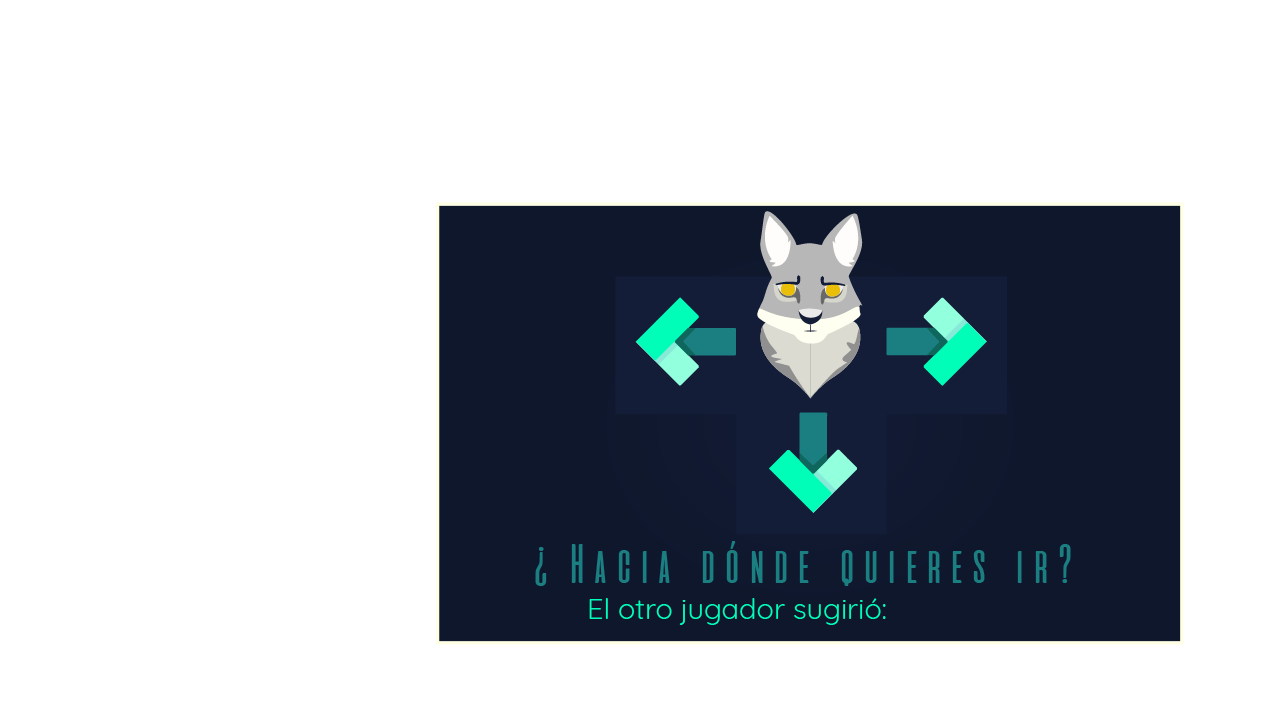
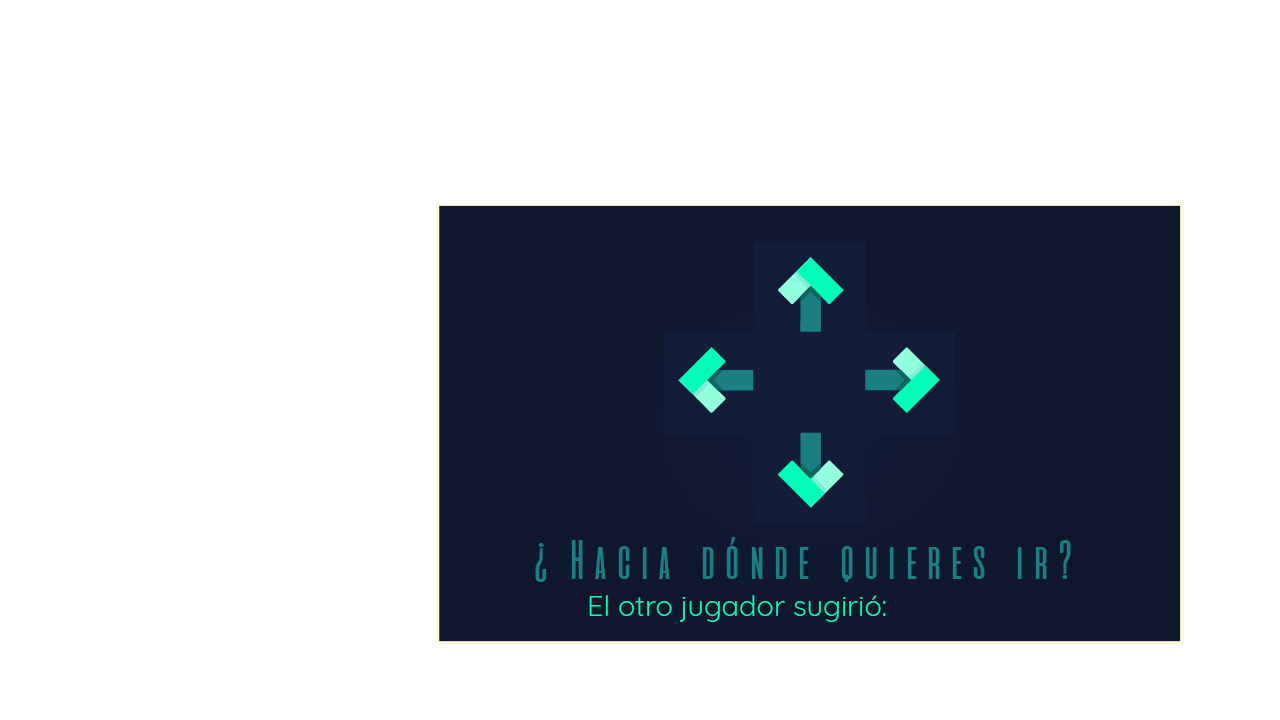
pasable de principio a fin

diff --git a/HCI2ProyectoUno/src/main/java/Karlos/HCI2ProyectoUno/Logica.java b/HCI2ProyectoUno/src/main/java/Karlos/HCI2ProyectoUno/Logica.java
@@ -57,7 +57,8 @@ public class Logica implements Observer
     PImage balanceConfianza[];
     PImage esperarJugadorIMG;
     PImage energia[];
-	
+    PImage sugerirImg;
+    PImage escogerImg;
 	
 	String mostrarBalance=null;
 	
@@ -96,6 +97,8 @@ public class Logica implements Observer
 		balanceConfianza[4]= app.loadImage("../data/Insumos/Blance 100-8.png");
 		esperarJugadorIMG= app.loadImage("../data/Insumos/Esperando-8.png");
 		energia= new PImage[20];
+		sugerirImg=  app.loadImage("../data/Insumos/Jugador 1 - sugiere-8.png");
+		escogerImg=  app.loadImage("../data/Insumos/Jugador 1 - ir-8.png");
 		
 		
 		for (int i = 0; i < 19; i++) {
@@ -296,14 +299,14 @@ public class Logica implements Observer
 		switch (estadoRonda) {
 		case 0:
 			app.fill(255);
-			
-			app.text("Sugiere una direccion para el otro jugador", 200, 100);
+			app.image(sugerirImg, 0, 0);
+		//	app.text("Sugiere una direccion para el otro jugador", 200, 100);
 			rutas.pintar();
 			
-			app.text("Izquierda", 600, 400);
-			app.text("Derecha", 1000, 400);
-			app.text("Derecho", 800, 200);
-			app.text("Atras", 800, 600);
+		//	app.text("Izquierda", 600, 400);
+		//	app.text("Derecha", 1000, 400);
+		//	app.text("Derecho", 800, 200);
+		//	app.text("Atras", 800, 600);
 		//	g= rutas.rNodes;
 			if(g!=null){
 			posicionesJugador(g);
@@ -318,14 +321,14 @@ public class Logica implements Observer
 				
 				} else if (mostrarBalance==null) {
 					app.fill(255);
+					app.image(escogerImg, 0, 0);
+					app.text(sugerencia, 940, 614);
 					
-					app.text("el otro jugador sugurio:"+ sugerencia, 200, 100);
 					
-					
-					app.text("Izquierda", 600, 400);
-					app.text("Derecha", 1000, 400);
-					app.text("Derecho", 800, 200);
-					app.text("Atras", 800, 600);
+				//	app.text("Izquierda", 600, 400);
+				//	app.text("Derecha", 1000, 400);
+				//	app.text("Derecho", 800, 200);
+				//	app.text("Atras", 800, 600);
 				//	g= rutas.rNodes;
 				//	if(g!=null){
 				//	posicionesJugador(g);
@@ -352,13 +355,13 @@ public class Logica implements Observer
 			
 			app.fill(255);
 			
-			app.text("el otro jugador sugurio:"+ sugerencia, 200, 100);
+			app.text(sugerencia, 895, 607);
 			rutas.pintar();
 			
-			app.text("Izquierda", 600, 400);
-			app.text("Derecha", 1000, 400);
-			app.text("Derecho", 800, 200);
-			app.text("Atras", 800, 600);
+		//	app.text("Izquierda", 600, 400);
+		//	app.text("Derecha", 1000, 400);
+		//	app.text("Derecho", 800, 200);
+		//	app.text("Atras", 800, 600);
 		//	g= rutas.rNodes;
 			if(g!=null){
 			posicionesJugador(g);
@@ -473,7 +476,7 @@ public class Logica implements Observer
 		case 0:
 			
 			app.println(mouseX,mouseY);
-			if( (mouseX>751 && mouseX<850) && (mouseY>175 && mouseY<210)){
+			if( (mouseX>750 && mouseX<855) && (mouseY>340 && mouseY<435)){
 				System.out.println("arriba");
 				ArrayList<String> secuencia= rutas.getSequence();
 				if(secuencia.get(0).equals("arriba")){
@@ -494,7 +497,7 @@ public class Logica implements Observer
 				
 				
 			
-			} else if((mouseX>550 && mouseX<650) && (mouseY>380 && mouseY<415)){
+			} else if((mouseX>665 && mouseX<760) && (mouseY>425 && mouseY<530)){
 				System.out.println("izquierda");
 				ArrayList<String> secuencia= rutas.getSequence();
 				if(secuencia.get(0).equals("izq")){
@@ -509,7 +512,7 @@ public class Logica implements Observer
 				estadoRonda+=1;
 				
 				
-			} else if((mouseX>950 && mouseX<1050) && (mouseY>380 && mouseY<415)){
+			} else if((mouseX>855 && mouseX<955) && (mouseY>426 && mouseY<530)){
 				System.out.println("derecha");
 				ArrayList<String> secuencia= rutas.getSequence();
 				if(secuencia.get(0).equals("der")){
@@ -525,7 +528,7 @@ public class Logica implements Observer
 				estadoRonda+=1;
 				
 				
-			} else if ((mouseX>766 && mouseX<830) && (mouseY>570 && mouseY<608)){
+			} else if ((mouseX>755 && mouseX<870) && (mouseY>520 && mouseY<620)){
 				System.out.println("atras");
 				ArrayList<String> secuencia= rutas.getSequence();
 				if(secuencia.get(0).equals("abajo")){
@@ -545,9 +548,9 @@ public class Logica implements Observer
 
 		case 1:
 			app.println(mouseX,mouseY);
-			if( (mouseX>751 && mouseX<850) && (mouseY>175 && mouseY<210)){
+			if( (mouseX>752 && mouseX<865) && (mouseY>246 && mouseY<335)){
 				System.out.println("derecho");
-				startNode = rutas.gs.getNodeAt(g[0].xf()+rutas.offX - rutas.offX, g[0].yf()+rutas.offY-20 - rutas.offY, 0,10.0f); 
+				startNode = rutas.gs.getNodeAt(g[0].xf()+rutas.offX - rutas.offX, g[0].yf()+rutas.offY-20 - rutas.offY, 0,9.0f); 
 				int imprimir= (int) (g[0].yf()+rutas.offY-5) ;
 				app.println("posicion apuntada:" + imprimir);
 				if(startNode!=null){
@@ -566,16 +569,16 @@ public class Logica implements Observer
 				
 				}
 				//-----------------
-				app.delay(300);
+				app.delay(350);
 				server.enviarObjeto(new BalanceCompleto(confie, dijeVerdad));
 				//---------------
 				//estadoRonda+=1;
 				mostrarBalance="yes";
 				
 			
-			} else if((mouseX>550 && mouseX<650) && (mouseY>380 && mouseY<415)){
+			} else if((mouseX>665 && mouseX<760) && (mouseY>333 && mouseY<430)){
 				System.out.println("izquierda");
-					startNode = rutas.gs.getNodeAt(g[0].xf()+rutas.offX-17 - rutas.offX, g[0].yf()+rutas.offY - rutas.offY, 0, 16.0f); 
+					startNode = rutas.gs.getNodeAt(g[0].xf()+rutas.offX-17 - rutas.offX, g[0].yf()+rutas.offY - rutas.offY, 0, 15.0f); 
 					if(startNode!=null){
 					System.out.println("id del nodo: "+startNode.id());
 					
@@ -600,9 +603,9 @@ public class Logica implements Observer
 					mostrarBalance="yes";
 					
 					
-			} else if((mouseX>950 && mouseX<1050) && (mouseY>380 && mouseY<415)){
+			} else if((mouseX>865 && mouseX<960) && (mouseY>380 && mouseY<415)){
 				System.out.println("derecha");
-				startNode = rutas.gs.getNodeAt(g[0].xf()+rutas.offX+20 - rutas.offX, g[0].yf()+rutas.offY - rutas.offY, 0, 10.0f); 
+				startNode = rutas.gs.getNodeAt(g[0].xf()+rutas.offX+20 - rutas.offX, g[0].yf()+rutas.offY - rutas.offY, 0, 9.0f); 
 				if(startNode!=null){
 				System.out.println("id del nodo: "+startNode.id());
 				
@@ -621,14 +624,14 @@ public class Logica implements Observer
 				
 				}
 				//-----------------
-				app.delay(300);
+				app.delay(350);
 				server.enviarObjeto(new BalanceCompleto(confie, dijeVerdad));
 				//---------------
 				//estadoRonda+=1;
 				mostrarBalance="yes";
-			} else if ((mouseX>766 && mouseX<830) && (mouseY>570 && mouseY<608)){
+			} else if ((mouseX>755 && mouseX<860) && (mouseY>425 && mouseY<520)){
 				System.out.println("atras");
-				startNode = rutas.gs.getNodeAt(g[0].xf()+rutas.offX - rutas.offX, g[0].yf()+rutas.offY+20 - rutas.offY, 0, 10.0f); 
+				startNode = rutas.gs.getNodeAt(g[0].xf()+rutas.offX - rutas.offX, g[0].yf()+rutas.offY+20 - rutas.offY, 0, 9.0f); 
 				if(startNode!=null){
 				System.out.println("id del nodo: "+startNode.id());
 				
@@ -645,7 +648,7 @@ public class Logica implements Observer
 			
 				}
 				//-----------------
-				app.delay(300);
+				app.delay(350);
 				server.enviarObjeto(new BalanceCompleto(confie, dijeVerdad));
 				//---------------
 				//estadoRonda+=1;

diff --git a/HCI2ProyectoUno/src/main/java/Cliente/Logica.java b/HCI2ProyectoUno/src/main/java/Cliente/Logica.java
@@ -54,6 +54,8 @@ public class Logica implements Observer{
     PImage balanceConfianza[];
     PImage esperarJugadorIMG;
     PImage energia[];
+    PImage sugerirImg;
+    PImage escogerImg;
     
     short acumuladoDesiciones;
     
@@ -92,6 +94,9 @@ public class Logica implements Observer{
 		balanceConfianza[4]= app.loadImage("../data/Insumos/Blance 100-8.png");
 		esperarJugadorIMG= app.loadImage("../data/Insumos/Esperando-8.png");
 		energia= new PImage[20];
+		sugerirImg=  app.loadImage("../data/Insumos/Jugador 1 - sugiere-8.png");
+		escogerImg=  app.loadImage("../data/Insumos/Jugador 1 - ir-8.png");
+		
 		for (int i = 0; i < 19; i++) {
 			energia[i]=app.loadImage("../data/Insumos/Energia "+(i+1)+".png");
 		}
@@ -274,14 +279,14 @@ public class Logica implements Observer{
 		switch (estadoRonda) {
 		case 0:
 			app.fill(255);
-			
-			app.text("Sugiere una direccion para el otro jugador", 200, 100);
+			app.image(sugerirImg, 0, 0);
+		
 			rutas.pintar();
 			
-			app.text("Izquierda", 600, 400);
-			app.text("Derecha", 1000, 400);
-			app.text("Derecho", 800, 200);
-			app.text("Atras", 800, 600);
+		//	app.text("Izquierda", 600, 400);
+		//	app.text("Derecha", 1000, 400);
+		//	app.text("Derecho", 800, 200);
+		//	app.text("Atras", 800, 600);
 		//	g= rutas.rNodes;
 			if(g!=null){
 			posicionesJugador(g);
@@ -298,14 +303,14 @@ public class Logica implements Observer{
 		//		}
 			} else if (mostrarBalance==null){
 				app.fill(255);
+				app.image(escogerImg, 0, 0);
+				app.text(sugerencia, 940, 614);
 				
-				app.text("el otro jugador sugurio:"+ sugerencia, 200, 100);
 				
-				
-				app.text("Izquierda", 600, 400);
-				app.text("Derecha", 1000, 400);
-				app.text("Derecho", 800, 200);
-				app.text("Atras", 800, 600);
+			//	app.text("Izquierda", 600, 400);
+			//	app.text("Derecha", 1000, 400);
+			//	app.text("Derecho", 800, 200);
+			//	app.text("Atras", 800, 600);
 			//	g= rutas.rNodes;
 			//	if(g!=null){
 		//		posicionesJugador(g);
@@ -329,13 +334,13 @@ public class Logica implements Observer{
              
 			app.fill(255);
 			
-			app.text("el otro jugador sugurio:"+ sugerencia, 200, 100);
+			app.text(sugerencia, 895, 607);
 			rutas.pintar();
 			
-			app.text("Izquierda", 600, 400);
-			app.text("Derecha", 1000, 400);
-			app.text("Derecho", 800, 200);
-			app.text("Atras", 800, 600);
+		//	app.text("Izquierda", 600, 400);
+		//	app.text("Derecha", 1000, 400);
+		//	app.text("Derecho", 800, 200);
+		//	app.text("Atras", 800, 600);
 		//	g= rutas.rNodes;
 			if(g!=null){
 			posicionesJugador(g);
@@ -406,7 +411,7 @@ public class Logica implements Observer{
 		case 0:
 			
 			app.println(mouseX,mouseY);
-			if( (mouseX>751 && mouseX<850) && (mouseY>175 && mouseY<210)){
+			if( (mouseX>750 && mouseX<855) && (mouseY>340 && mouseY<435)){
 				System.out.println("derecho");
 				ArrayList<String> secuencia= rutas.getSequence();
 				if(secuencia.get(0).equals("arriba")){
@@ -428,7 +433,7 @@ public class Logica implements Observer{
 				
 				
 			
-			} else if((mouseX>550 && mouseX<650) && (mouseY>380 && mouseY<415)){
+			} else if((mouseX>665 && mouseX<760) && (mouseY>425 && mouseY<530)){
 				System.out.println("izquierda");
 				ArrayList<String> secuencia= rutas.getSequence();
 				if(secuencia.get(0).equals("izq")){
@@ -444,7 +449,7 @@ public class Logica implements Observer{
 				estadoRonda+=1;
 				
 				
-			} else if((mouseX>950 && mouseX<1050) && (mouseY>380 && mouseY<415)){
+			} else if((mouseX>855 && mouseX<955) && (mouseY>426 && mouseY<530)){
 				System.out.println("derecha");
 				ArrayList<String> secuencia= rutas.getSequence();
 				if(secuencia.get(0).equals("der")){
@@ -460,7 +465,7 @@ public class Logica implements Observer{
 				estadoRonda+=1;
 				
 				
-			} else if ((mouseX>766 && mouseX<830) && (mouseY>570 && mouseY<608)){
+			} else if ((mouseX>755 && mouseX<870) && (mouseY>520 && mouseY<620)){
 				System.out.println("atras");
 				ArrayList<String> secuencia= rutas.getSequence();
 				if(secuencia.get(0).equals("abajo")){
@@ -480,7 +485,7 @@ public class Logica implements Observer{
 
 		case 1:
 			app.println(mouseX,mouseY);
-			if( (mouseX>751 && mouseX<850) && (mouseY>175 && mouseY<210)){
+			if( (mouseX>752 && mouseX<865) && (mouseY>246 && mouseY<335)){
 				System.out.println("derecho");
 				startNode = rutas.gs.getNodeAt(g[0].xf()+rutas.offX - rutas.offX, g[0].yf()+rutas.offY-20 - rutas.offY, 0,10.0f); 
 				int imprimir= (int) (g[0].yf()+rutas.offY-5) ;
@@ -508,7 +513,7 @@ public class Logica implements Observer{
 				//estadoRonda+=1;
 				mostrarBalance="yes";
 			
-			} else if((mouseX>550 && mouseX<650) && (mouseY>380 && mouseY<415)){
+			} else if((mouseX>665 && mouseX<760) && (mouseY>333 && mouseY<430)){
 				System.out.println("izquierda");
 					startNode = rutas.gs.getNodeAt(g[0].xf()+rutas.offX-17 - rutas.offX, g[0].yf()+rutas.offY - rutas.offY, 0, 16.0f); 
 					if(startNode!=null){
@@ -534,7 +539,7 @@ public class Logica implements Observer{
 					//estadoRonda+=1;
 					mostrarBalance="yes";
 					
-			} else if((mouseX>950 && mouseX<1050) && (mouseY>380 && mouseY<415)){
+			} else if((mouseX>865 && mouseX<960) && (mouseY>380 && mouseY<415)){
 				System.out.println("derecha");
 				startNode = rutas.gs.getNodeAt(g[0].xf()+rutas.offX+20 - rutas.offX, g[0].yf()+rutas.offY - rutas.offY, 0, 10.0f); 
 				if(startNode!=null){
@@ -563,7 +568,7 @@ public class Logica implements Observer{
 				mostrarBalance="yes";
 				
 				
-			} else if ((mouseX>766 && mouseX<830) && (mouseY>570 && mouseY<608)){
+			} else if ((mouseX>755 && mouseX<860) && (mouseY>425 && mouseY<520)){
 				System.out.println("atras");
 				startNode = rutas.gs.getNodeAt(g[0].xf()+rutas.offX - rutas.offX, g[0].yf()+rutas.offY+20 - rutas.offY, 0, 10.0f); 
 				if(startNode!=null){
